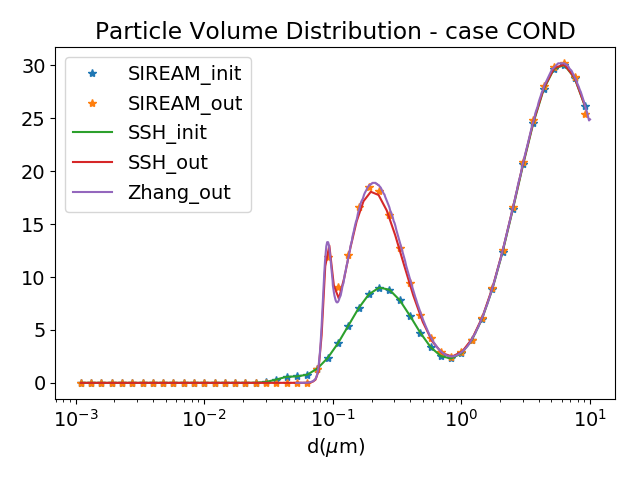
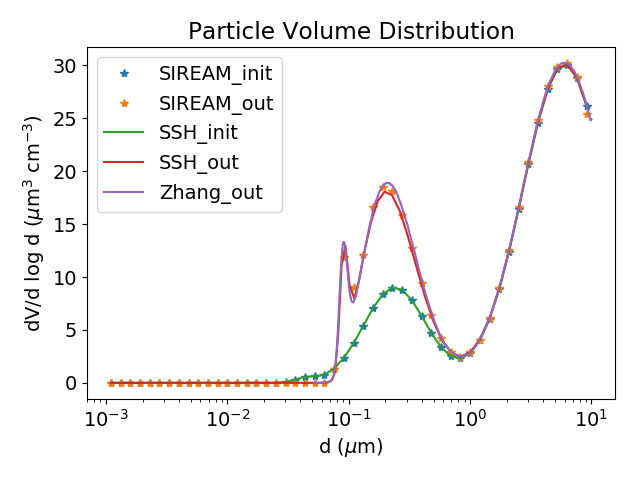
Improve axis.

diff --git a/graph/gas_cond-evap.py b/graph/gas_cond-evap.py
@@ -52,11 +52,12 @@ with open (pcase_icut+'/gas/NH3.txt') as finit :
 	for i in range(nt):
            conc_nh3_icut[i] = float(values[i])
 plt.plot(ssh_time, conc_nh3_dyn, label = 'SSH dyn')
-plt.plot(ssh_time, conc_nh3_eq, label = 'SSH eq')
-plt.plot(ssh_time, conc_nh3_icut, label = 'SSH hyb')
+plt.plot(ssh_time, conc_nh3_eq, linestyle='-.',label = 'SSH eq')
+plt.plot(ssh_time, conc_nh3_icut, linestyle='--',label = 'SSH hyb')
 
 plt.xlabel(r'time (s)')
 plt.title( 'NH$_3$ time evolution')
+plt.ylabel(r'Concentration ($\mu$g m$^{-3}$)')
 plt.legend(loc ='best')		# show legend
 fig.savefig('NH3_COND-EVAP_'+tag_fig)
 
@@ -74,11 +75,12 @@ with open (pcase_icut+'/gas/HNO3.txt') as finit :
 	for i in range(nt):
            conc_hno3_icut[i] = float(values[i])
 plt.plot(ssh_time, conc_hno3_dyn, label = 'SSH dyn')
-plt.plot(ssh_time, conc_hno3_eq, label = 'SSH eq')
-plt.plot(ssh_time, conc_hno3_icut, label = 'SSH hyb')
+plt.plot(ssh_time, conc_hno3_eq, linestyle='-.',label = 'SSH eq')
+plt.plot(ssh_time, conc_hno3_icut, linestyle = '--',label = 'SSH hyb')
 
 plt.xlabel(r'time (s)')
 plt.title( 'HNO$_3$ time evolution')
+plt.ylabel(r'Concentration ($\mu$g m$^{-3}$)')
 plt.legend(loc ='best')		# show legend
 plt.tight_layout()
 fig.savefig('HNO3_COND-EVAP_'+tag_fig)

diff --git a/graph/dN_Vdlogd_kelvin.py b/graph/dN_Vdlogd_kelvin.py
@@ -187,8 +187,8 @@ lists = []
 lists_diam = []
 lists_logdiam = []
 lbs=[]
-stl = ['-','-','-','-']
-cols = ['-','-','-','-']
+stl = ['-','-','-','-.']
+cols = ['-','-','-','-.']
 for i in num_init_sml : lists.append(i)
 for i in num_out_sml : lists.append(i)
 for i in cell_diam_init_sml : lists_diam.append(i)
@@ -255,11 +255,11 @@ tmp = np.array(tmp)
 masked = ma.masked_where(tmp == 0.0, tmp)
 plt.plot(dinit, masked,'*',label = 'Devilliers_48bin_out')
 
-plt.xlabel(r'd($\mu$m)')
+plt.xlabel(r'd ($\mu$m)')
 plt.ylabel(r'dN/d log d (cm$^{-3}$)')
 plt.xscale('log')
 plt.yscale('log')
-plt.title( 'Particle Number Distribution - case KELVIN')
+plt.title( 'Particle Number Distribution')
 plt.legend(loc ='best')		# show legend
 plt.tight_layout()
 fig.savefig('dNdlogd_KELVIN')
@@ -312,9 +312,10 @@ for j in range(num) :
 	if(tmp[j] < 0.01) : tmp[j] = 0.0
 plt.plot(dinit, tmp,'*',label = 'Devilliers_48bin_out')
 
-plt.xlabel(r'd($\mu$m)')
+plt.xlabel(r'd ($\mu$m)')
 plt.xscale('log')
-plt.title( 'Particle Volume Distribution - case KELVIN')
+plt.ylabel(r'dV/d log d ($\mu$m$^3$ cm$^{-3}$)')
+plt.title( 'Particle Volume Distribution')
 plt.legend(loc ='best')		# show legend
 plt.tight_layout()
 fig.savefig('dVdlogd_KELVIN')

diff --git a/graph/dN_Vdlogd_cond.py b/graph/dN_Vdlogd_cond.py
@@ -161,11 +161,11 @@ for j in range(num) :
 	if(tmp[j] < 0.01) : tmp[j] = 0.0
 plt.plot(exa_diam_out, tmp,'-',label = 'Zhang_out')
 
-plt.xlabel(r'd($\mu$m)')
+plt.xlabel(r'd ($\mu$m)')
 plt.ylabel(r'dN/d log d (cm$^{-3}$)')
 plt.xscale('log')
 plt.yscale('log')
-plt.title( 'Particle Number Distribution - case COND')
+plt.title( 'Particle Number Distribution')
 plt.legend(loc ='best')		# show legend
 plt.tight_layout()
 fig.savefig('dNdlogd_COND_'+tag_fig)
@@ -217,11 +217,12 @@ for j in range(num) :
 	tmp[j]= float(exact_mass_out[j]) 
 plt.plot(exa_diam_out, exact_mass_out,'-',label = 'Zhang_out')
 
-plt.xlabel(r'd($\mu$m)')
+plt.xlabel(r'd ($\mu$m)')
+plt.ylabel(r'dV/d log d ($\mu$m$^3$ cm$^{-3}$)')
 #plt.ylabel(r'dN/d log d (cm$^{-3}$)')
 plt.xscale('log')
 #plt.yscale('log')
-plt.title( 'Particle Volume Distribution - case COND')
+plt.title( 'Particle Volume Distribution')
 plt.legend(loc ='best')		# show legend
 plt.tight_layout()
 fig.savefig('dVdlogd_COND_'+tag_fig)

diff --git a/graph/dN_Vdlogd_coag.py b/graph/dN_Vdlogd_coag.py
@@ -140,11 +140,11 @@ masked = ma.masked_where(tmp == 0.0, tmp)
 plt.plot(exa_diam_out, masked,'-',label = 'Zhang_out')
 
 
-plt.xlabel(r'd($\mu$m)')
+plt.xlabel(r'd ($\mu$m)')
 plt.ylabel(r'dN/d log d (cm$^{-3}$)')
 plt.xscale('log')
 plt.yscale('log')
-plt.title( 'Particle Number Distribution - case COAG')
+plt.title( 'Particle Number Distribution')
 plt.legend(loc ='best')		# show legend
 plt.tight_layout()
 fig.savefig('dNdlogd_COAG')
@@ -177,11 +177,11 @@ for j in range(num) :
 	tmp[j]= float(exact_mass_out[j]) 
 plt.plot(exa_diam_out, exact_mass_out,'-',label = 'Zhang_out')
 
-plt.xlabel(r'd($\mu$m)')
-#plt.ylabel(r'dN/d log d (cm$^{-3}$)')
+plt.xlabel(r'd ($\mu$m)')
+plt.ylabel(r'dV/d log d ($\mu$m$^3$ cm$^{-3}$)')
 plt.xscale('log')
 #plt.yscale('log')
-plt.title( 'Particle Volume Distribution - case COAG')
+plt.title( 'Particle Volume Distribution')
 plt.legend(loc ='best')		# show legend
 plt.tight_layout()
 fig.savefig('dVdlogd_COAG')

diff --git a/graph/cond_2D.py b/graph/cond_2D.py
@@ -84,7 +84,7 @@ ylabel(u"Fraction of sulfate", size = 14)#, fontweight = "bold")
 colorbar()
 xlim(xmin = 0.001, xmax = 10)
 yticks(composition_bounds)
-title(u"Particle mass concentration [$\mu$g/cm$^3$]",
+title(u"Particle mass concentration [$\mu$g m$^{-3}$]",
       fontsize = 14)#, fontweight = "bold")
 plt.tight_layout()
 savefig('cond_mass_ext_init.png')
@@ -100,7 +100,7 @@ ylabel(u"Fraction of sulfate", size = 14)#, fontweight = "bold")
 colorbar()
 xlim(xmin = 0.001, xmax = 10)
 yticks(composition_bounds)
-title(u"Particle mass concentration [$\mu$g/cm$^3$]",
+title(u"Particle mass concentration [$\mu$g m$^{-3}$]",
       fontsize = 14)#, fontweight = "bold")
 plt.tight_layout()
 savefig('cond_mass_ext_out.png')

diff --git a/graph/coag_2D.py b/graph/coag_2D.py
@@ -79,7 +79,7 @@ ylabel(u"Fraction of sulfate", size = 14) #, fontweight = "bold")
 colorbar()
 xlim(xmin = 0.001, xmax = 10)
 yticks(composition_bounds)
-title(u"Particle number concentration [#/cm$^3$]",
+title(u"Particle number concentration [# m$^{-3}$]",
       fontsize = 14)#, fontweight = "bold")
 plt.tight_layout()
 savefig('coag_ext_init.png')
@@ -95,7 +95,7 @@ ylabel(u"Fraction of sulfate", size = 14) #, fontweight = "bold")
 colorbar()
 xlim(xmin = 0.001, xmax = 10)
 yticks(composition_bounds)
-title(u"Particle number concentration [#/cm$^3$]",
+title(u"Particle number concentration [# m$^{-3}$]",
       fontsize = 14)#, fontweight = "bold")
 plt.tight_layout()
 savefig('coag_ext_out.png')

diff --git a/graph/plot_platt_particles.py b/graph/plot_platt_particles.py
@@ -121,9 +121,9 @@ fig = plt.figure(1,figsize = (15,15))
 plt.ylim(0.,450.)
 
 plt.plot(time, totsoa,'k-',label='total')
-plt.plot(time, hsoa,'navy',label='SOA from VOC oxid. - high NOx')
-plt.plot(time, soa4,'b-',label='SOA from VOC oxid. - low NOx')
-plt.plot(time, ssoa,'c-',label='SOA from SVOC oxid.')
+plt.plot(time, hsoa,color='navy',linestyle='dotted',label='SOA from VOC oxid. - high NOx')
+plt.plot(time, soa4,'b-.',label='SOA from VOC oxid. - low NOx')
+plt.plot(time, ssoa,'c--',label='SOA from SVOC oxid.')
 plt.plot(time, ppoa,'g-',label='Primary SVOC')
 plt.plot(time, inorg,'y-',label='Inorganics')
 plt.ylabel("$\mu g.m^{-3}$", fontsize=18)

diff --git a/graph/plot_platt_particles_nh3.py b/graph/plot_platt_particles_nh3.py
@@ -121,9 +121,9 @@ fig = plt.figure(1,figsize = (15,15))
 plt.ylim(0.,450.)
 
 plt.plot(time, totsoa,'k-',label='total')
-plt.plot(time, hsoa,'navy',label='SOA from VOC oxid. - high NOx')
-plt.plot(time, soa4,'b-',label='SOA from VOC oxid. - low NOx')
-plt.plot(time, ssoa,'c-',label='SOA from SVOC oxid.')
+plt.plot(time, hsoa,color='navy',linestyle='dotted',label='SOA from VOC oxid. - high NOx')
+plt.plot(time, soa4,'b-.',label='SOA from VOC oxid. - low NOx')
+plt.plot(time, ssoa,'c--',label='SOA from SVOC oxid.')
 plt.plot(time, ppoa,'g-',label='Primary SVOC')
 plt.plot(time, inorg,'y-',label='Inorganics')
 plt.ylabel("$\mu g.m^{-3}$", fontsize=18)
